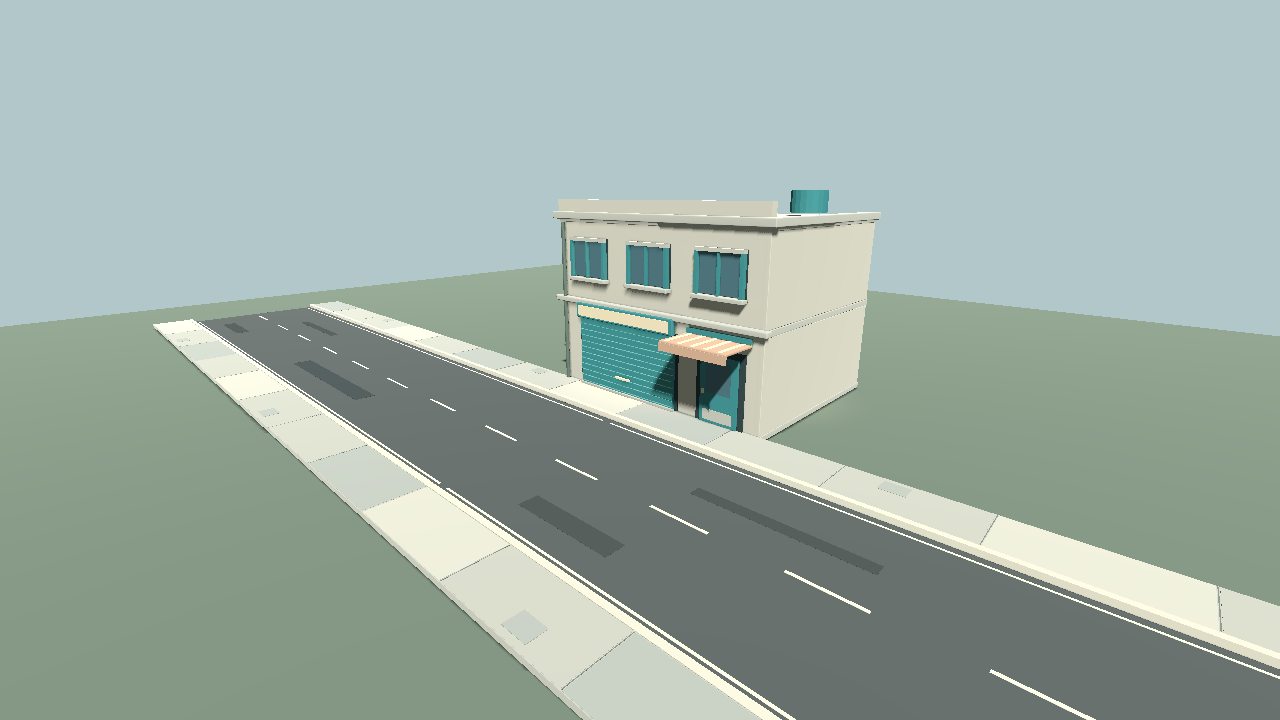
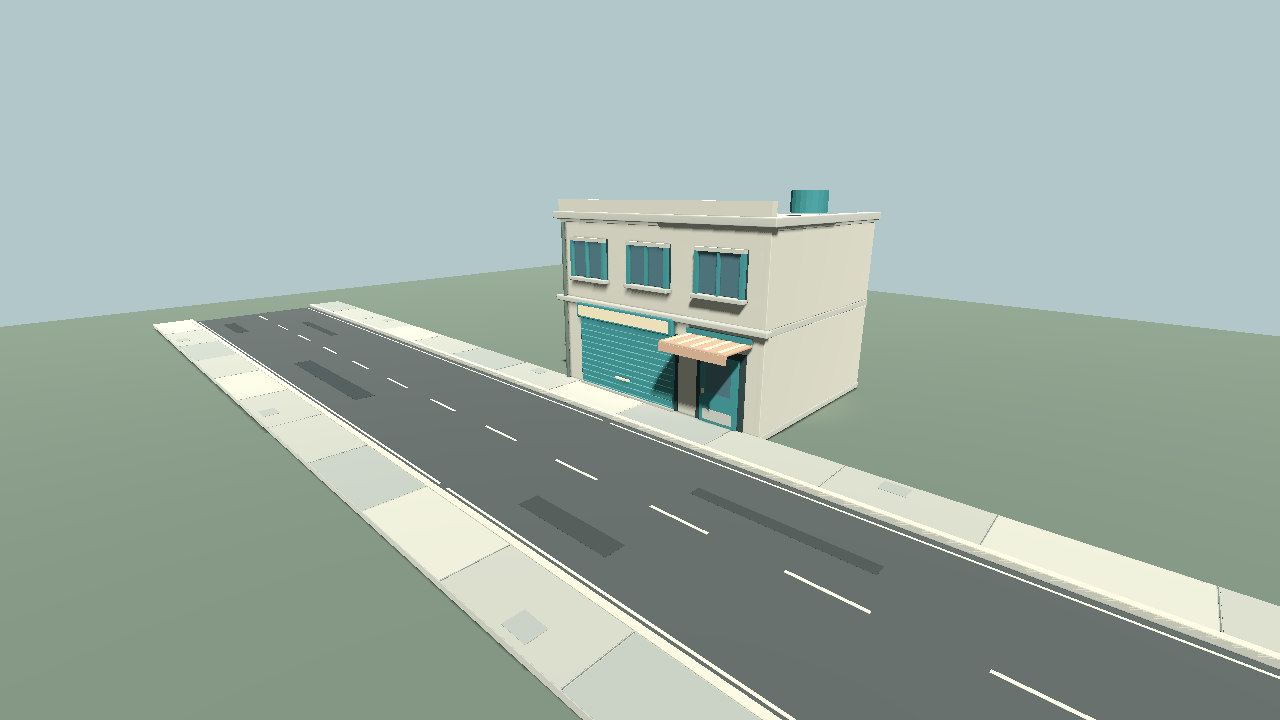
Group repeated street meshes by material

diff --git a/tools/export_static_by_material.py b/tools/export_static_by_material.py
@@ -1,0 +1,70 @@
+"""Export static collection meshes grouped by material without changing the source."""
+
+import collections
+from pathlib import Path
+
+import bpy
+
+
+def export_static_by_material(collection_name: str, output_path: str) -> dict[str, int]:
+    source = bpy.data.collections[collection_name]
+    source_objects = [obj for obj in source.objects if obj.type == "MESH"]
+    if not source_objects:
+        raise ValueError(f"No mesh objects in {collection_name}")
+
+    previous_scene = bpy.context.window.scene
+    previous_selection = [obj for obj in previous_scene.objects if obj.select_get()]
+    previous_active = bpy.context.view_layer.objects.active
+    for obj in previous_selection:
+        obj.select_set(False)
+
+    export_scene = bpy.data.scenes.new("Temporary material export")
+    export_collection = bpy.data.collections.new("Export meshes")
+    export_scene.collection.children.link(export_collection)
+
+    try:
+        bpy.context.window.scene = export_scene
+        groups = collections.defaultdict(list)
+        for original in source_objects:
+            clone = original.copy()
+            clone.data = original.data.copy()
+            export_collection.objects.link(clone)
+            clone.select_set(True)
+            bpy.context.view_layer.objects.active = clone
+            for modifier in list(clone.modifiers):
+                bpy.ops.object.modifier_apply(modifier=modifier.name)
+            bpy.ops.object.transform_apply(location=True, rotation=True, scale=True)
+            clone.select_set(False)
+            material_name = clone.data.materials[0].name if clone.data.materials else "Unassigned"
+            groups[material_name].append(clone)
+
+        for material_name, members in groups.items():
+            for obj in members:
+                obj.select_set(True)
+            bpy.context.view_layer.objects.active = members[0]
+            if len(members) > 1:
+                bpy.ops.object.join()
+            members[0].name = f"Static {material_name}"
+            members[0].select_set(False)
+
+        for obj in export_collection.objects:
+            obj.select_set(True)
+        bpy.context.view_layer.objects.active = next(iter(export_collection.objects))
+        bpy.ops.export_scene.gltf(
+            filepath=str(Path(output_path).resolve()),
+            export_format="GLB",
+            use_selection=True,
+            export_apply=True,
+            export_yup=True,
+            export_materials="EXPORT",
+        )
+        return {"source_objects": len(source_objects), "export_meshes": len(export_collection.objects)}
+    finally:
+        bpy.context.window.scene = previous_scene
+        for obj in previous_selection:
+            obj.select_set(True)
+        bpy.context.view_layer.objects.active = previous_active
+        for obj in list(export_collection.objects):
+            bpy.data.objects.remove(obj, do_unlink=True)
+        bpy.data.collections.remove(export_collection)
+        bpy.data.scenes.remove(export_scene)

diff --git a/docs/reviews/2026-11-12-first-block.md b/docs/reviews/2026-11-12-first-block.md
@@ -5,6 +5,9 @@ The exterior and interior were captured at 1280 x 720 using the GL Compatibility
 The exterior rendered 770 draw calls and 24,542 primitives in the measured frame.
 The interior rendered 398 draw calls in the measured frame.
 These numbers include scene lighting and shadow passes, and they describe one review camera frame rather than a gameplay performance profile.
+Grouping only the repeated road and sidewalk exports by material lowered the same exterior view to 556 draw calls and the interior view to 369.
+The grouped exports retain 14 road parts and 21 sidewalk parts in their editable Blender sources.
+The images in this review show the grouped exports and were recaptured after the Godot reimport.
 
 The road and sidewalk meet visually along the shop side in the exterior capture.
 The shop's wall and floor meshes create an actual interior volume, and the workbench appears inside it at room scale.

diff --git a/art/review/A003_straight_harbor_road/REVIEW.md b/art/review/A003_straight_harbor_road/REVIEW.md
@@ -3,7 +3,8 @@
 The model is 7 m wide and 32 m long, with a 0.14 m structural slab and a top surface at ground level.
 The asset origin is at the road center, at ground level.
 Blender reports 168 triangles across 14 objects and four materials.
-The exported GLB is 17,560 bytes and contains only the 14 intended road objects.
+The exported GLB now groups the 14 editable source objects into four static meshes by material.
+The grouped export is about 12 KiB and contains no unrelated scene objects.
 The road is designed to join at its two lengthwise ends, with curbs supplied by A005.
 
 ## Pending review

diff --git a/art/review/A005_harbor_sidewalk/REVIEW.md b/art/review/A005_harbor_sidewalk/REVIEW.md
@@ -3,7 +3,8 @@
 The model is 2 m wide and 32 m long, with an intended 0.17 m walking surface and a 0.19 m curb lip.
 The origin is centered on the ground plane, with the street-facing edge at local X = -1 m.
 Blender reports 252 triangles across 21 objects and five materials.
-The exported GLB is 26,236 bytes.
+The exported GLB now groups the 21 editable source objects into five static meshes by material.
+The grouped export is about 18 KiB.
 The paving pattern is authored as separate shallow fields over a continuous base, so gameplay collision can use one simple shape.
 
 ## Pending review
